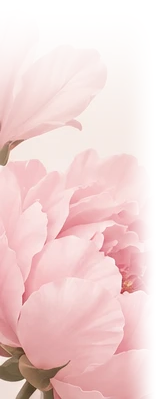
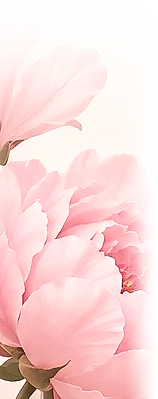
Сторінка букета: світла тема за макетом (квіти, листя й пелюстки з макета, цілі піони внизу, відступи), чіткіші світлі піони, чистіші піони в темній темі

diff --git a/src/app/pages/product-details/product-details.scss b/src/app/pages/product-details/product-details.scss
@@ -74,24 +74,24 @@
   top: 0;
   right: 0;
   width: min(30vw, 520px);
-  -webkit-mask-image: radial-gradient(ellipse 100% 100% at 100% 0%, #000 66%, transparent 97%);
-  mask-image: radial-gradient(ellipse 100% 100% at 100% 0%, #000 66%, transparent 97%);
+  -webkit-mask-image: radial-gradient(ellipse 100% 100% at 100% 0%, #000 88%, transparent 100%);
+  mask-image: radial-gradient(ellipse 100% 100% at 100% 0%, #000 88%, transparent 100%);
 }
 
 .decor--bl {
   bottom: 0;
   left: 0;
   width: min(25vw, 430px);
-  -webkit-mask-image: radial-gradient(ellipse 100% 100% at 0% 100%, #000 66%, transparent 97%);
-  mask-image: radial-gradient(ellipse 100% 100% at 0% 100%, #000 66%, transparent 97%);
+  -webkit-mask-image: radial-gradient(ellipse 100% 100% at 0% 100%, #000 88%, transparent 100%);
+  mask-image: radial-gradient(ellipse 100% 100% at 0% 100%, #000 88%, transparent 100%);
 }
 
 .decor--br {
   bottom: 0;
   right: 0;
   width: min(26vw, 440px);
-  -webkit-mask-image: radial-gradient(ellipse 100% 100% at 100% 100%, #000 62%, transparent 97%);
-  mask-image: radial-gradient(ellipse 100% 100% at 100% 100%, #000 62%, transparent 97%);
+  -webkit-mask-image: radial-gradient(ellipse 100% 100% at 100% 100%, #000 86%, transparent 100%);
+  mask-image: radial-gradient(ellipse 100% 100% at 100% 100%, #000 86%, transparent 100%);
 }
 
 .decor--ml {
@@ -387,8 +387,8 @@
     top: -110px;
     right: 0;
     width: min(23vw, 400px);
-    -webkit-mask-image: radial-gradient(ellipse 100% 100% at 100% 0%, #000 66%, transparent 97%);
-    mask-image: radial-gradient(ellipse 100% 100% at 100% 0%, #000 66%, transparent 97%);
+    -webkit-mask-image: radial-gradient(ellipse 100% 100% at 100% 0%, #000 88%, transparent 100%);
+    mask-image: radial-gradient(ellipse 100% 100% at 100% 0%, #000 88%, transparent 100%);
   }
 
   .rel-p1 {
@@ -488,7 +488,6 @@
   top: 100svh;
   bottom: 0;
   height: auto;
-  display: flex;
   flex-flow: column wrap;
   justify-content: space-between;
   align-content: flex-start;
@@ -511,8 +510,7 @@
 }
 
 /* цілі кластери з макета: притиснуті до краю екрана, решта країв розчиняється в фон */
-.pd-cl,
-.pd-petal {
+.pd-cl {
   --fade: linear-gradient(to right, #000 70%, transparent 100%);
   --fade-v: linear-gradient(to bottom, transparent 0, #000 9%, #000 91%, transparent 100%);
   -webkit-mask-image: var(--fade), var(--fade-v);
@@ -521,19 +519,136 @@
   mask-composite: intersect;
 }
 
-.pd-petal {
-  --fade: radial-gradient(closest-side, #000 55%, transparent 100%);
-  --fade-v: linear-gradient(#000, #000);
-  width: 5.5vw;
-}
-
 .pd-cl { width: 14vw; }
 
 .dk-flow-l { left: 0; width: 14vw; align-items: flex-start; }
 .dk-flow-r { right: 0; width: 14vw; align-items: flex-end; }
 .dk-flow-r img { transform: scaleX(-1); }
-.dk-flow-l .pd-petal { margin-left: 4vw; }
-.dk-flow-r .pd-petal { margin-right: 4vw; }
+
+/* ===== Світла тема: перший екран точно за макетом (усе масштабується від ширини вікна) ===== */
+.lt-art {
+  position: absolute;
+  z-index: 0;
+  display: block;
+  height: auto;
+  pointer-events: none;
+}
+
+:host-context([data-theme='dark']) .lt-art {
+  display: none;
+}
+
+.lt-mock-l { left: 0; top: 0; width: 20.633vw; }
+.lt-mock-r { left: 69.378vw; top: 0; width: 30.622vw; }
+/* цілі піони внизу: починаються там, де в макеті квітка виходить за край екрана */
+.lt-wp { width: 17vw; }
+.lt-wp-l { left: 0; top: 43.4vw; }
+.lt-wp-r { right: 0; top: 45vw; transform: scaleX(-1); }
+
+/* власні кутові піони, листя й пелюстки світлої теми замінює картинка з макета */
+.decor--tr,
+.decor--ml,
+.decor--lines,
+.decor--petal.petal-1,
+.decor--petal.petal-2,
+.decor--petal.petal-3 {
+  display: none;
+}
+
+@media (min-width: 1100px) {
+  .pd-top > .container {
+    width: 80.3vw;
+    max-width: none;
+    margin-left: 10.77vw;
+    margin-right: 0;
+    padding-inline: 0;
+  }
+
+  .product {
+    grid-template-columns: 34.7vw minmax(0, 1fr);
+    column-gap: 7.66vw;
+  }
+
+  .stage.stage--photo {
+    width: 100%;
+    aspect-ratio: 9 / 10;
+  }
+
+  /* світла тема: вертикальні відступи блоку інформації, як на макеті */
+  .crumbs {
+    padding-top: calc(var(--space-5) + 65px);
+  }
+
+  .info {
+    padding-top: 10px;
+    gap: 26px;
+  }
+
+  .price {
+    margin-top: 18px;
+  }
+
+  .sizes {
+    margin-top: 22px;
+  }
+
+  .size {
+    padding-block: 20px;
+  }
+
+  .buy {
+    margin-top: 6px;
+  }
+
+  /* темна тема лишається зі своїм макетом */
+  :host-context([data-theme='dark']) .crumbs {
+    padding-top: calc(var(--space-5) + 36px);
+  }
+
+  :host-context([data-theme='dark']) .info {
+    padding-top: 14px;
+    gap: var(--space-4);
+  }
+
+  :host-context([data-theme='dark']) .price {
+    margin-top: 10px;
+  }
+
+  :host-context([data-theme='dark']) .sizes {
+    margin-top: var(--space-4);
+  }
+
+  :host-context([data-theme='dark']) .size {
+    padding-block: var(--space-3);
+  }
+
+  :host-context([data-theme='dark']) .buy {
+    margin-top: 0;
+  }
+
+  :host-context([data-theme='dark']) .pd-top > .container {
+    width: auto;
+    max-width: var(--pd-wide);
+    margin-inline: auto;
+    padding-inline: var(--gutter);
+  }
+
+  :host-context([data-theme='dark']) .product {
+    grid-template-columns: minmax(0, 545px) minmax(0, 1fr);
+    column-gap: clamp(48px, 8.8vw, 147px);
+  }
+
+  :host-context([data-theme='dark']) .stage.stage--photo {
+    width: min(100%, 545px);
+    aspect-ratio: 5 / 6;
+  }
+}
+
+@media (max-width: 1099px) {
+  .lt-art {
+    display: none;
+  }
+}
 
 /* нижні піони — по низу першого екрана, як на макеті */
 .dk-bl { top: calc(100svh - 21vw); left: 0; width: 14vw; }

diff --git a/src/app/pages/product-details/product-details.html b/src/app/pages/product-details/product-details.html
@@ -12,32 +12,31 @@
 
   <div class="dk-art dk-flow dk-flow-l" aria-hidden="true">
     <img class="pd-cl" src="flowers/pd-cl-a.jpg" alt="" />
-    <img class="pd-petal" src="flowers/pd-petal-1.jpg" alt="" />
     <img class="pd-cl" src="flowers/pd-cl-a.jpg" alt="" />
-    <img class="pd-petal" src="flowers/pd-petal-2.jpg" alt="" />
     <img class="pd-cl" src="flowers/pd-cl-a.jpg" alt="" />
-    <img class="pd-petal" src="flowers/pd-petal-3.jpg" alt="" />
     <img class="pd-cl" src="flowers/pd-cl-a.jpg" alt="" />
-    <img class="pd-petal" src="flowers/pd-petal-4.jpg" alt="" />
     <img class="pd-cl" src="flowers/pd-cl-a.jpg" alt="" />
-    <img class="pd-petal" src="flowers/pd-petal-1.jpg" alt="" />
     <img class="pd-cl" src="flowers/pd-cl-a.jpg" alt="" />
-    <img class="pd-petal" src="flowers/pd-petal-2.jpg" alt="" />
   </div>
   <div class="dk-art dk-flow dk-flow-r" aria-hidden="true">
     <img class="pd-cl" src="flowers/pd-cl-a.jpg" alt="" />
-    <img class="pd-petal" src="flowers/pd-petal-3.jpg" alt="" />
     <img class="pd-cl" src="flowers/pd-cl-a.jpg" alt="" />
-    <img class="pd-petal" src="flowers/pd-petal-4.jpg" alt="" />
     <img class="pd-cl" src="flowers/pd-cl-a.jpg" alt="" />
-    <img class="pd-petal" src="flowers/pd-petal-2.jpg" alt="" />
     <img class="pd-cl" src="flowers/pd-cl-a.jpg" alt="" />
-    <img class="pd-petal" src="flowers/pd-petal-1.jpg" alt="" />
     <img class="pd-cl" src="flowers/pd-cl-a.jpg" alt="" />
-    <img class="pd-petal" src="flowers/pd-petal-3.jpg" alt="" />
     <img class="pd-cl" src="flowers/pd-cl-a.jpg" alt="" />
-    <img class="pd-petal" src="flowers/pd-petal-4.jpg" alt="" />
   </div>
+
+
+  <img class="lt-art lt-mock lt-mock-l" src="flowers/pd-lt-mock-l.png" alt="" aria-hidden="true" />
+  <img class="lt-art lt-mock lt-mock-r" src="flowers/pd-lt-mock-r.png" alt="" aria-hidden="true" />
+  <img class="lt-art lt-wp lt-wp-l" src="flowers/fav-peony-l.png" alt="" aria-hidden="true" />
+  <img class="lt-art lt-wp lt-wp-r" src="flowers/fav-peony-l.png" alt="" aria-hidden="true" />
+  <img class="lt-art lt-petal" style="left:59.510vw;top:6.280vw;width:5.682vw" src="flowers/pd-lt-mock-p1.png" alt="" aria-hidden="true" />
+  <img class="lt-art lt-petal" style="left:66.089vw;top:0.299vw;width:5.084vw" src="flowers/pd-lt-mock-p2.png" alt="" aria-hidden="true" />
+  <img class="lt-art lt-petal" style="left:78.349vw;top:20.335vw;width:6.280vw" src="flowers/pd-lt-mock-p3.png" alt="" aria-hidden="true" />
+  <img class="lt-art lt-petal" style="left:89.414vw;top:30.203vw;width:5.383vw" src="flowers/pd-lt-mock-p4.png" alt="" aria-hidden="true" />
+  <img class="lt-art lt-petal" style="left:46.950vw;top:47.548vw;width:6.878vw" src="flowers/pd-lt-mock-p5.png" alt="" aria-hidden="true" />
 
   <div class="pd-top">
     <img class="dk-art dk-a-left-top" src="flowers/pd-dark-a-left-top.png" alt="" aria-hidden="true" />
